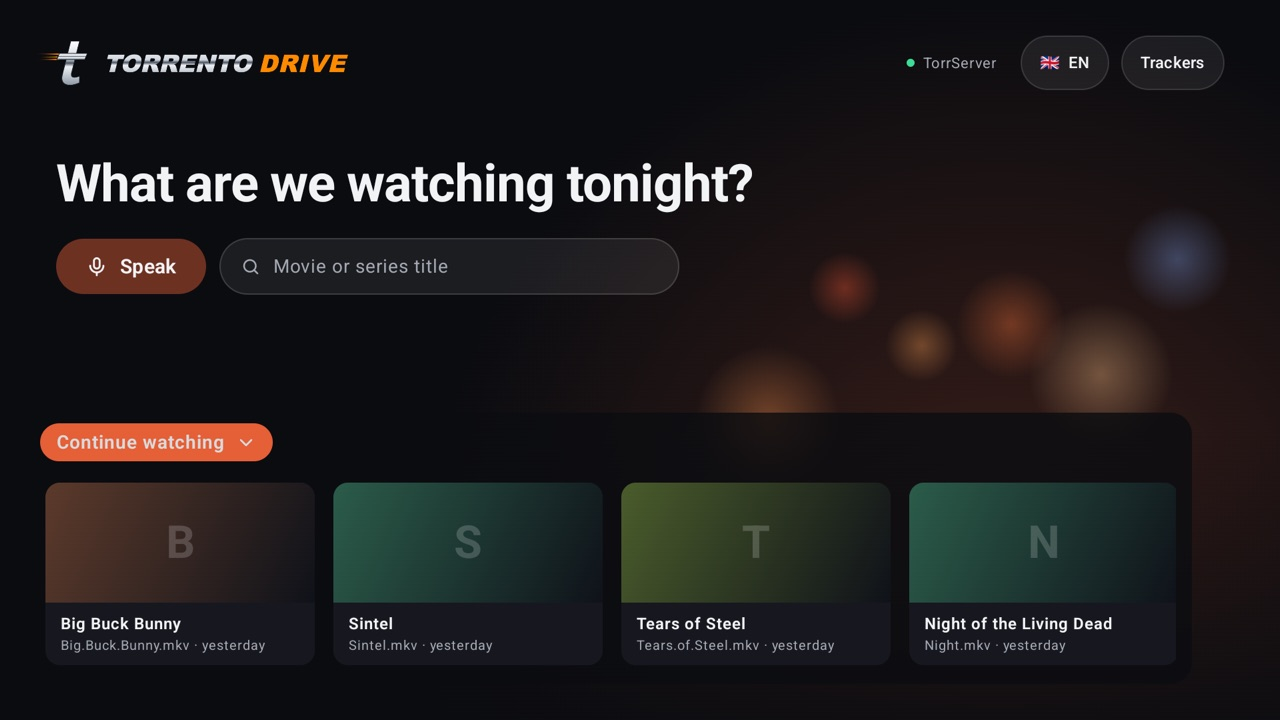
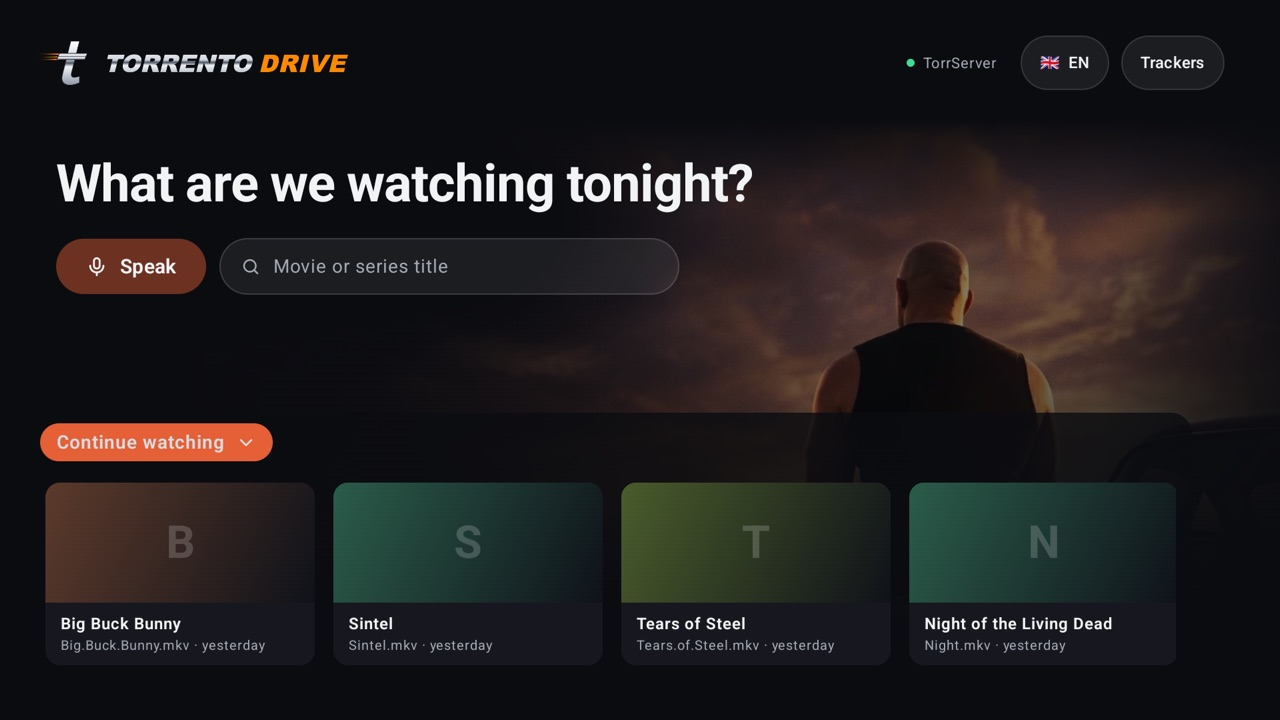
Default backdrop: an original sunset scene, softer and wider fade
The home screen gets a default picture instead of the abstract night lights: a man
seen from behind at a desert sunset next to a car, cropped so only the top of the car
shows. The frame is wider and reaches toward the voice button, where it fades out
slowly; the bottom-right corner fades out further. A personal backdrop.png still
replaces it. README screenshots retaken. Version 0.2.2.

Changed region(s): [[0.5, 0.2139, 0.9688, 0.5806], [0.9062, 0.5806, 0.9688, 0.6722]]

diff --git a/app/src/main/java/io/github/nindzyago/torrentodrive/ui/Backdrop.kt b/app/src/main/java/io/github/nindzyago/torrentodrive/ui/Backdrop.kt
@@ -1,6 +1,5 @@
 package io.github.nindzyago.torrentodrive.ui
 
-import androidx.compose.foundation.Canvas
 import androidx.compose.foundation.Image
 import androidx.compose.runtime.remember
 import androidx.compose.ui.geometry.Offset
@@ -12,7 +11,6 @@ import androidx.compose.foundation.layout.offset
 import androidx.compose.foundation.layout.size
 import androidx.compose.runtime.Composable
 import androidx.compose.ui.Alignment
-import androidx.compose.ui.BiasAlignment
 import androidx.compose.ui.Modifier
 import androidx.compose.ui.draw.drawWithContent
 import androidx.compose.ui.graphics.BlendMode
@@ -24,74 +22,47 @@ import androidx.compose.ui.graphics.graphicsLayer
 import androidx.compose.ui.layout.ContentScale
 import androidx.compose.ui.res.painterResource
 import androidx.compose.ui.unit.dp
+import io.github.nindzyago.torrentodrive.R
 
 /**
  * Backdrop per mockup A: image on the right at 50% opacity, edges fading into the background (elliptical mask),
  * darkened on the left and bottom for text. [dense] is for list screens: stronger darkening.
  */
-/** Fallback for builds without a personal picture: soft out-of-focus city lights on the right. */
-@Composable
-private fun BoxScope.NightLights() {
-    Canvas(Modifier.matchParentSize()) {
-        val w = size.width
-        val h = size.height
-        val lights = listOf(
-            Triple(0.72f, 0.48f, Color(0xFFFFAA5A)), Triple(0.79f, 0.45f, Color(0xFFFF7A3C)),
-            Triple(0.86f, 0.52f, Color(0xFFFFD296)), Triple(0.66f, 0.40f, Color(0xFFFF5A36)),
-            Triple(0.92f, 0.36f, Color(0xFF78AAFF)), Triple(0.60f, 0.58f, Color(0xFFFF9A50)),
-        )
-        lights.forEachIndexed { i, (x, y, c) ->
-            val r = h * (0.05f + 0.025f * (i % 3))
-            drawCircle(
-                Brush.radialGradient(listOf(c.copy(alpha = 0.35f), Color.Transparent), center = Offset(w * x, h * y), radius = r),
-                radius = r,
-                center = Offset(w * x, h * y),
-            )
-        }
-        drawRect(
-            Brush.radialGradient(
-                listOf(Color(0x33FF6A3D), Color.Transparent),
-                center = Offset(w * 0.78f, h * 0.8f),
-                radius = w * 0.45f,
-            )
-        )
-    }
-}
-
 @Composable
 fun BoxScope.Backdrop(dense: Boolean = false) {
     Box(Modifier.matchParentSize().background(Palette.Bg))
-    // Personal picture: put any image at res/drawable-nodpi/backdrop.png (it is gitignored).
-    // Without it the public build shows neutral night lights instead.
+    // Personal picture: put any image at res/drawable-nodpi/backdrop.png (it is gitignored) to use it
+    // instead of the default one.
     val context = LocalContext.current
-    val personal = remember { context.resources.getIdentifier("backdrop", "drawable", context.packageName) }
-    if (personal == 0) {
-        NightLights()
-    } else Image(
-        painter = painterResource(personal),
+    val picture = remember {
+        context.resources.getIdentifier("backdrop", "drawable", context.packageName).takeIf { it != 0 } ?: R.drawable.backdrop_default
+    }
+    Image(
+        painter = painterResource(picture),
         contentDescription = null,
         contentScale = ContentScale.Crop,
         // like background-position: 45% 20% in the mockup
         alignment = Alignment.Center,
         modifier = Modifier
             .align(Alignment.TopEnd)
-            .offset(x = 30.dp, y = 110.dp)
-            .size(620.dp, 320.dp)
+            .offset(x = 30.dp, y = 90.dp)
+            // wide enough to reach the voice button on the left, where it slowly fades out
+            .size(900.dp, 400.dp)
             .graphicsLayer { alpha = 0.5f; compositingStrategy = CompositingStrategy.Offscreen }
             .drawWithContent {
                 drawContent()
                 // fade the edges horizontally and vertically; the two masks are multiplied (DstIn)
                 drawRect(
-                    Brush.horizontalGradient(0f to Color.Transparent, 0.35f to Color.Black, 0.85f to Color.Black, 1f to Color.Transparent),
+                    Brush.horizontalGradient(0f to Color.Transparent, 0.3f to Color.Black.copy(alpha = 0.35f), 0.62f to Color.Black, 0.82f to Color.Black, 1f to Color.Transparent),
                     blendMode = BlendMode.DstIn,
                 )
                 drawRect(
-                    Brush.verticalGradient(0f to Color.Transparent, 0.2f to Color.Black, 0.7f to Color.Black, 1f to Color.Transparent),
+                    Brush.verticalGradient(0f to Color.Transparent, 0.18f to Color.Black, 0.68f to Color.Black, 1f to Color.Transparent),
                     blendMode = BlendMode.DstIn,
                 )
                 // the picture's top-left corner sits behind the headline and the search field: erase it there (a flattened oval)
-                val spot = Offset(size.width * 0.14f, size.height * 0.26f)
-                val r = size.width * 0.34f
+                val spot = Offset(size.width * 0.2f, size.height * 0.2f)
+                val r = size.width * 0.3f
                 scale(scaleX = 1f, scaleY = 0.45f, pivot = spot) {
                     drawCircle(
                         Brush.radialGradient(0f to Color.Black, 0.55f to Color.Black, 1f to Color.Transparent, center = spot, radius = r),
@@ -100,6 +71,15 @@ fun BoxScope.Backdrop(dense: Boolean = false) {
                         blendMode = BlendMode.DstOut,
                     )
                 }
+                // and fade the bottom-right corner out further
+                val corner = Offset(size.width, size.height)
+                val cr = size.width * 0.38f
+                drawCircle(
+                    Brush.radialGradient(0f to Color.Black, 0.25f to Color.Black, 1f to Color.Transparent, center = corner, radius = cr),
+                    radius = cr,
+                    center = corner,
+                    blendMode = BlendMode.DstOut,
+                )
             },
     )
     Box(

diff --git a/README.md b/README.md
@@ -129,9 +129,9 @@ adb shell am start -n io.github.nindzyago.torrentodrive/.MainActivity --es query
 
 ### Personal background picture
 
-Drop any image at `app/src/main/res/drawable-nodpi/backdrop.png` and rebuild: it is shown on
-the right of the screens with soft edges. The file is git-ignored, so your picture stays in
-your own build. Without it the app draws neutral night lights.
+Drop any image at `app/src/main/res/drawable-nodpi/backdrop.png` and rebuild: it replaces the
+default picture on the right of the screens, with the same soft edges. The file is git-ignored,
+so your picture stays in your own build.
 
 ## Releasing (maintainers)
 

diff --git a/CHANGELOG.md b/CHANGELOG.md
@@ -1,5 +1,11 @@
 # Changelog
 
+## 0.2.2
+
+- New default backdrop: an original sunset scene on the right of the home screen, fading out
+  softly toward the voice button. A personal `backdrop.png` still replaces it.
+- README screenshots show the new backdrop.
+
 ## 0.2.1
 
 - "Install TorrServe" button on the home screen: downloads the latest TorrServe from GitHub
